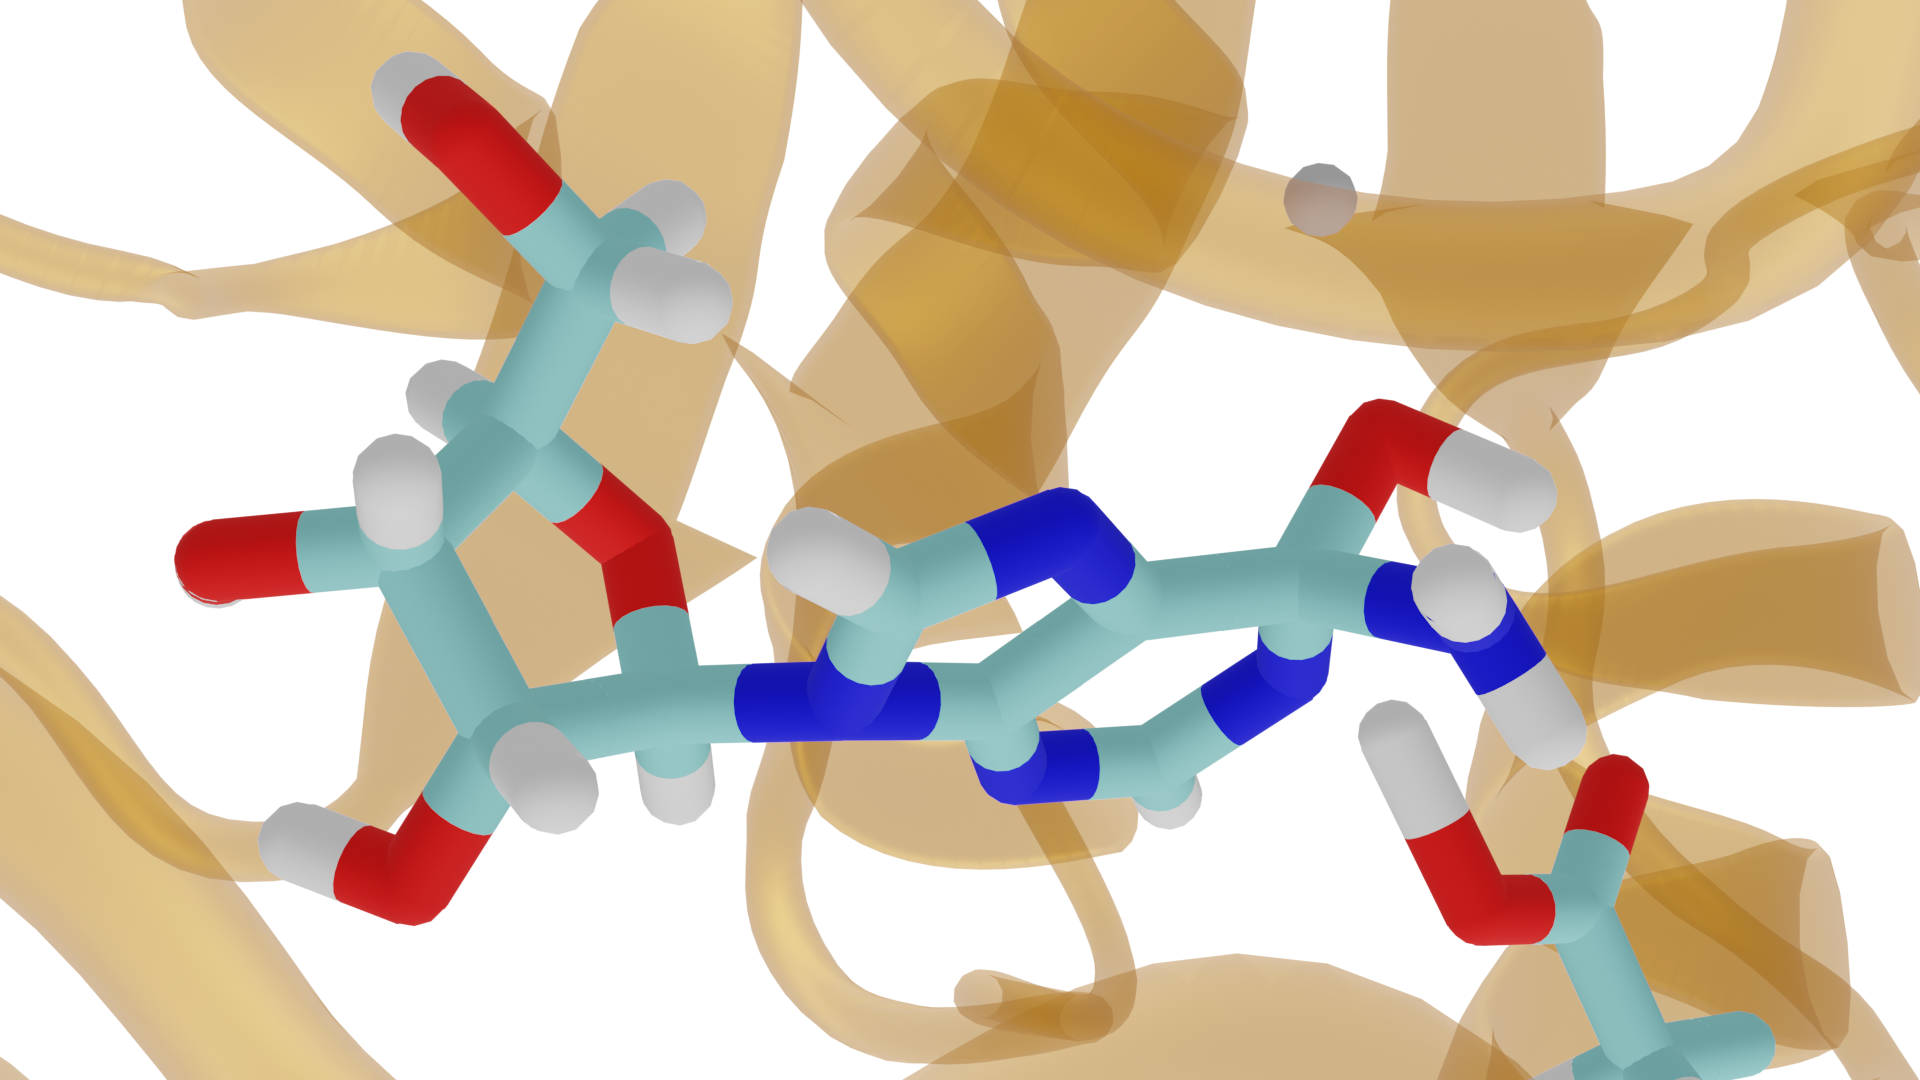
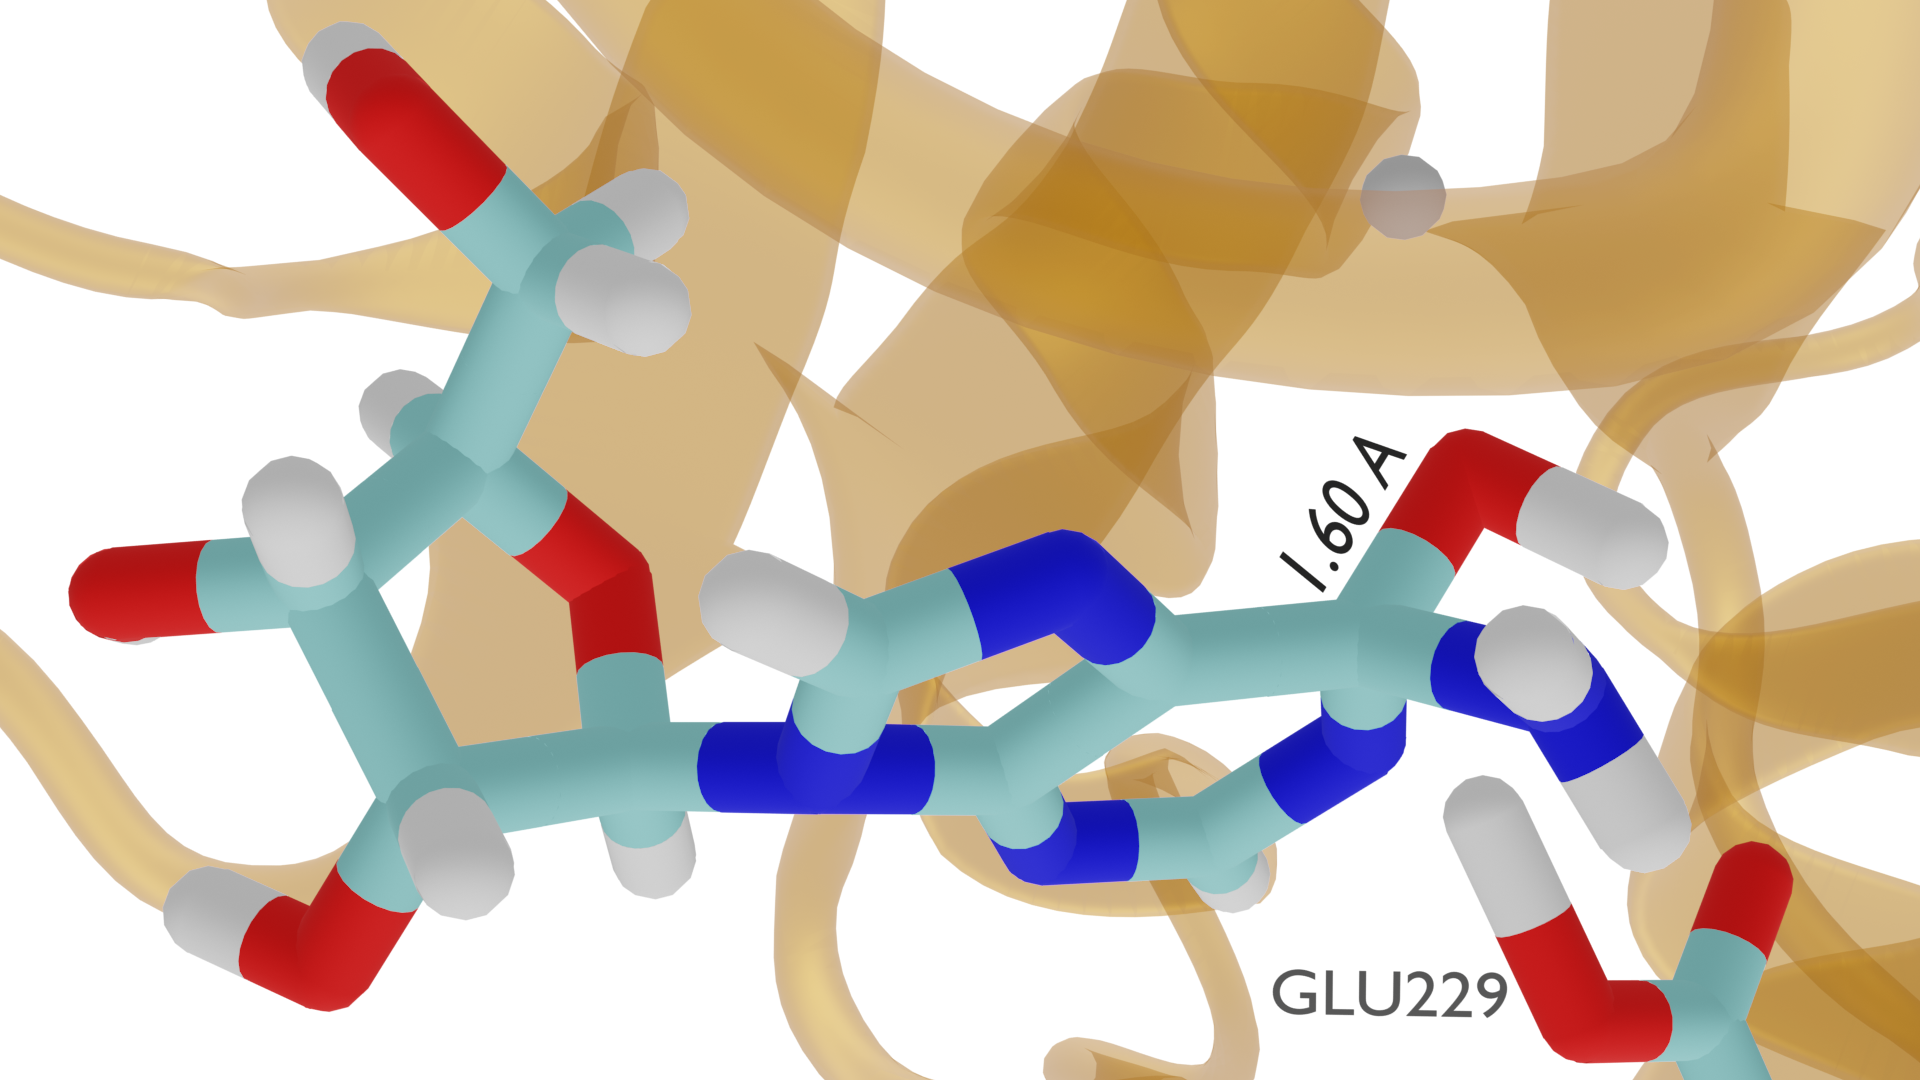
added a whole bunch of images and text

diff --git a/tex/manuscript.tex b/tex/manuscript.tex
@@ -469,18 +469,22 @@ potential of mean force from umbrella sampling calculations.
 %------------------------------------------------------------------------------ 
 \subsection{Human Methionine Adenosyltransferase 2A}
 The equilibrated structure of the MAT2A enzyme in complex with 
+ATP, MET and two Mg$^{2+}$ ions is shown in Fig. \ref{fig:mat2a-equil}.
 \begin{figure}[ht!]
+\centering
 \includegraphics[scale=0.2]{figures/mat2a-equil.png}
-\label{fig:mat2a-equil}
 \caption{Equilibriated structure of the MAT2A enzyme in complex with ATP and 
 MET along with 2 Mg$^{2+}$ ions.}
+\label{fig:mat2a-equil}
 \end{figure}
-The adenosyl part of the ATP is held together through $\pi-\pi$ interactions 
-by Phe250 and Ile117 residues. 
+In the binding pocket the adenosyl moiety and the Phe250 and Ile117 residues 
+are found to have $\pi-\pi$ interactions stabilizing the molecule. The triphosphate 
+moiety forms hydrogen bonds with ... residues. 
 
 \begin{figure}
 \includegraphics[scale=1.0]{figures/mat2a-diff167.pdf}
-\caption{A reactive trajectory}
+\caption{Bond breaking ($dis(OC)$), bond forming ($dis(SC)$) distances for a typical 
+reactive trajectory for the reaction catalyzed by the MAT2A enzyme.}
 \label{fig:mat2a-reactive-traj}
 \end{figure}
 The order parameters of the system along a typical reactive trajectory is 
@@ -503,10 +507,23 @@ promote the reaction. Taking this into account the committor distribution analys
 starts by constraining the residues and molecules that are theorized to be part of the 
 reaction and using this constrained system trajectories are started   
 
-\begin{figure}[ht!]
-\includegraphics[scale=0.2]{figures/mat2a-transition-state.png}
+%\begin{figure}[ht!]
+%\includegraphics[scale=0.2]{figures/mat2a-transition-state.png}
 %\includegraphics[scale=0.2]{figures/mat2a-active-site2.png}
+%\end{figure}
+
+\begin{figure}[ht!]
+\includegraphics[scale=0.12]{blender-images/ada/mat2a-trans-labelled.png}
+\caption{Transition state structure of the reaction catalyzed by the human MAT2A enzyme.
+The S$-$C distance is $2.09$ {\AA} and the O$-$C distance is $2.32$ {\AA} which represents 
+an advanced transition state.}
+\label{fig:mat2a-trans-struct}
 \end{figure}
+The transition state structure follows a S$_{\text{N}}2$ 
+mechanism with a product like structure, the O$-$C bond is cleaved and 
+has a value of $2.32$ {\AA}.
+Experimentally the transition state structures of enzymatic reactions
+can be elucidated using kinetic isotope effects (KIE). \cite{Schramm99MetEnzym308p301}
 
 From the committor distribution analysis for a reactive trajectory we see that the 
 constrained region consisting of just the QM part which is the ATP and MET molecules 
@@ -525,7 +542,9 @@ of these residues as well.
 \includegraphics[width=\textwidth]{figures/comm-60-mat2a.pdf}
 \label{fig:minipage2}
 \end{minipage}
-\caption{Committor distribution analysis}
+\caption{Committor distribution analysis for obtaining the reaction coordinate of the 
+MAT2A catalyzed reaction. The figure on the left has the QM region constrained and the figure 
+on the right has the QM region along with the Gln113, Ser114, Arg249 and Arg264 residues constrained.}
 \end{figure*}
 
 The activation energy of this reaction was experimentally measured by 
@@ -546,10 +565,18 @@ $16\;\text{Kcal mol}^{-1}$.
 \subsection{Adenosine deaminase reaction coordinates and free energy}
 %------------------------------------------------------------------------------ 
 The equilibrated structure for the ADA enzyme complexed with adenosine, 
-OH$^{-}$ anion and Zn$^{2+}$ ion is shown in Fig. \ref{fig:ada-equil}.
-The Zn$^{2+}$ cation interacts with His42, His44 and His226 residues
-along with the hydroxide ion in the pocket. Glu229 is part of the 
+OH$^{-}$ anion and Zn$^{2+}$ cation is shown in Fig. \ref{fig:ada-equil}.
+The Zn$^{2+}$ cation interacts with the His42, His44 and His226 residues
+and stabilizes the OH$^{-}$ anion in the pocket. 
+
+Glu229 is part of the 
 QM region and it acts as a proton donor to the adenosine molecule.  
+
+Experimentally KIE studies 
+from Schramm and coworkers \cite{Luo07JAmChemSoc129p8008,Ho09Biochemistry48p9618}
+predict the transition state structures for the plasmodium falciparum, human and bovine 
+ADA enzymes. They reported inhibition studies on the plasmodium vivax ADA by using 
+MT coformycin as the inhibitor molecule. 
 
 The formation of Meissenheimer complex is part of the 
 transition state as well as the partial protonation of the 
@@ -571,15 +598,19 @@ an intermediate state and we observe the same from our calculations.
 
 \begin{figure}
 \centering
-\includegraphics[scale=0.12]{blender-images/ada/ada-trans.png}
+\includegraphics[scale=0.12]{blender-images/ada/new-ada-trans.png}
 \label{fig:ada-trans}
-\caption{The transition state structure of the reaction catalyzed by the ADA enzyme}
+\caption{The transition state structure of the reaction catalyzed by the ADA enzyme.
+The formation of the Meissenheimer complex is the rate limiting step and the N-C distance is 
+1.60 {\AA} and the O-C distance is 1.48 {\AA}.}
 \end{figure}
 
 \begin{figure}[ht!]
 \includegraphics[scale=1.0]{./figures/ada-fenergy.pdf}
 \label{fig:ada-fenergy}
-\caption{The free energy curve for the ADA reaction}
+\caption{The free energy in $\text{Kcal}\;\text{mol}^{-1}$ as a function of the reaction 
+parameter for the ADA catalyzed reaction. The Meissenheimer complex where the OH$^{-}$ anion
+is bonded to the C atom and the leaving NH$_2$ moeity is also still bonded.}
 \end{figure}
 
 %------------------------------------------------------------------------------ 
